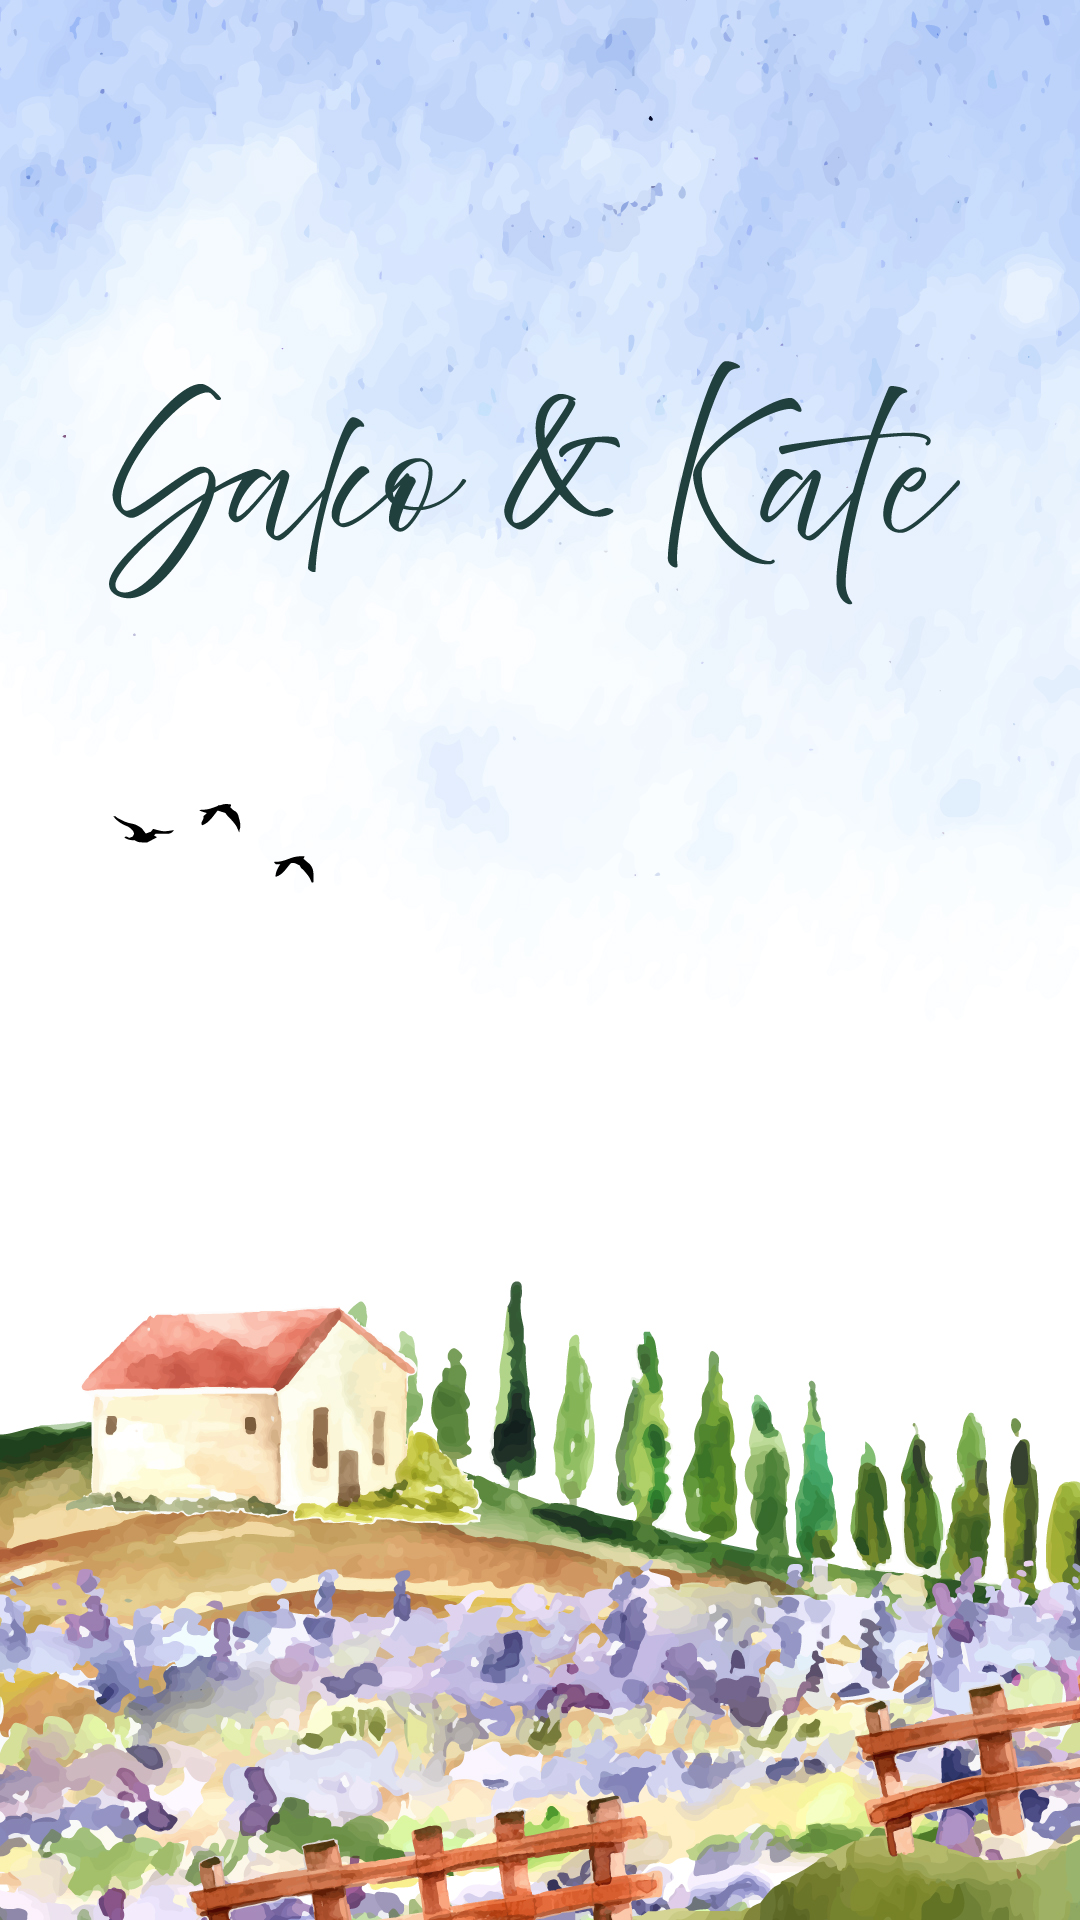
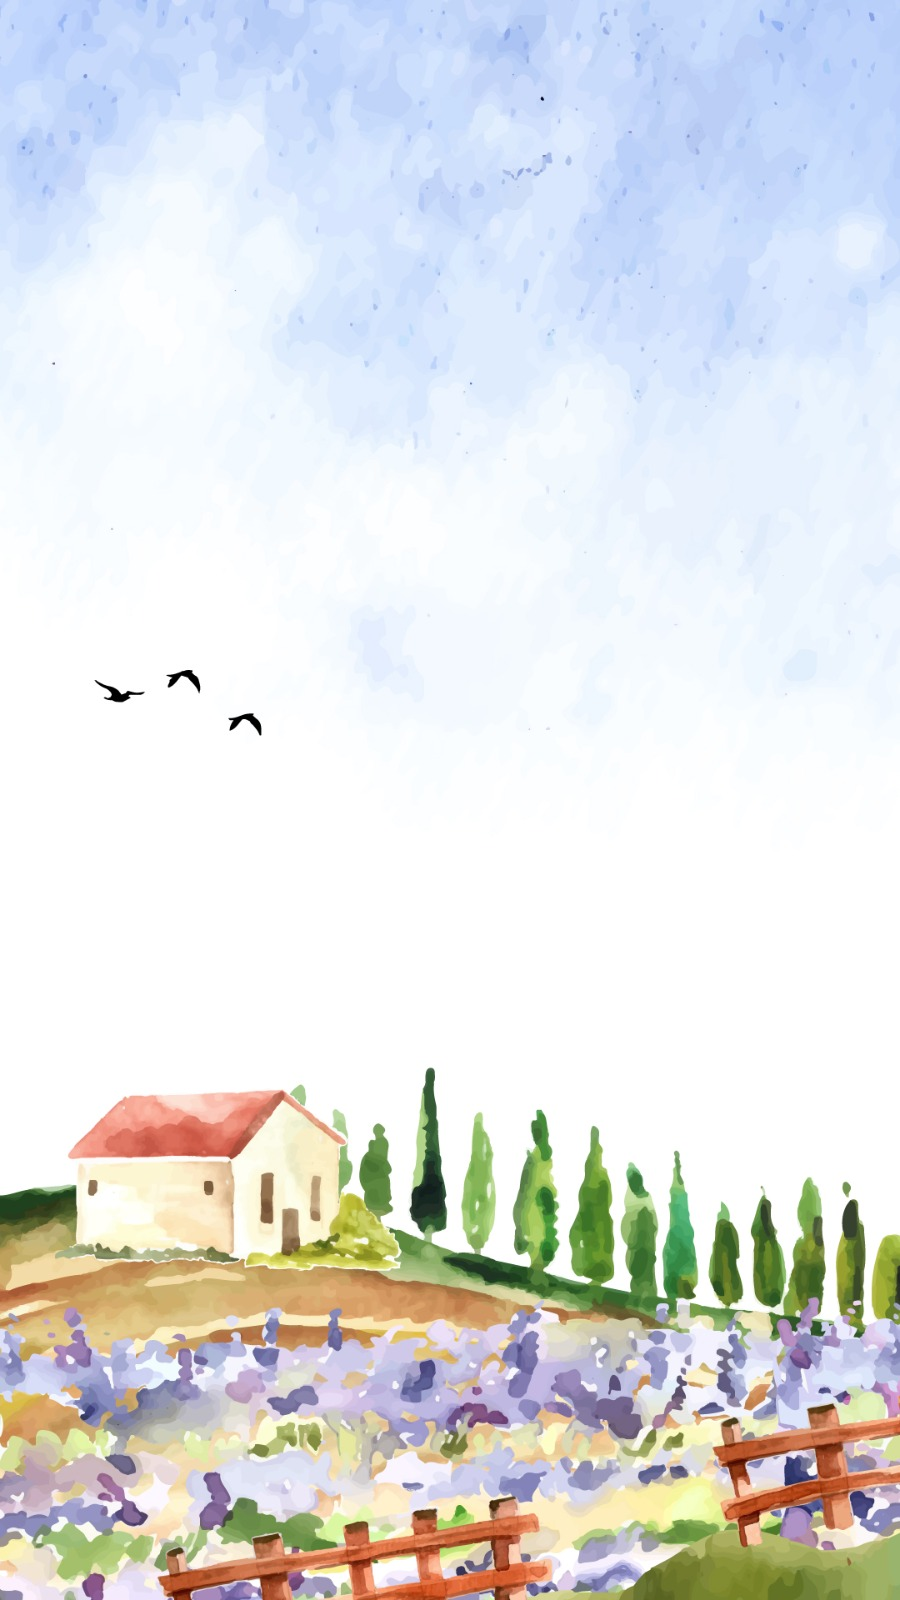
fix first slide

diff --git a/components/ExampleThree.vue b/components/ExampleThree.vue
@@ -1,4 +1,20 @@
 <template>
+  <!-- Desktop blocker — hidden on mobile, visible on md+ screens -->
+  <div class="desktop-blocker">
+    <div class="desktop-blocker__card">
+      <img src="/favicon.png" class="desktop-blocker__logo" alt="e-vents logo" />
+      <p class="desktop-blocker__title">Mobile Only</p>
+      <p class="desktop-blocker__msg">
+        This invitation is designed for mobile.<br />
+        Please open it on your phone for the best experience.
+      </p>
+      <div class="desktop-blocker__badge">
+        <img src="/favicon.png" class="w-4 h-4" alt="e-vents" />
+        <span>powered by e-vents</span>
+      </div>
+    </div>
+  </div>
+
   <section class="example-three relative flex m-auto full-custom-height overflow-hidden">
     <Swiper class="mainSwiper" :options="swiperOprions">
 
@@ -202,6 +218,21 @@
     </Swiper>
 
   </section>
+
+  <!-- ── Intro video overlay ───────────────────── -->
+  <!-- <Transition name="intro-fade">
+    <div v-if="showIntro" class="intro-overlay">
+      <video
+        class="intro-video"
+        autoplay
+        muted
+        playsinline
+        @ended="showIntro = false"
+      >
+        <source src="../assets/images/sako-kate/birds-1.mp4" type="video/mp4" />
+      </video>
+    </div>
+  </Transition> -->
 </template>
 
 <script setup lang="ts">
@@ -226,6 +257,8 @@ const swiperOprions = {
   },
   allowSlidePrev: false,
 };
+
+const showIntro = ref(true);
 
 const attendence = ref('');
 const rsvp = ref({
@@ -292,10 +325,10 @@ const submitRsvp = async () => {
   font-family: 'roxborough', sans-serif;
 }
 .sk-moderline {
-  font-family: 'modernline', sans-serif;
+  font-family: 'garadab', sans-serif;
 }
 .sk-moderline-bold {
-  font-family: 'modernline-bold', sans-serif;
+  font-family: 'garadab', sans-serif;
 }
 .sk-title-1 {
   font-family: 'roxborough', sans-serif;
@@ -354,6 +387,7 @@ const submitRsvp = async () => {
   font-size: 14px;
   color: #5a4a3a;
   outline: none;
+  background-color: transparent;
 }
 .sk-input:focus {
   border-color: #8a9a6a;
@@ -362,5 +396,93 @@ const submitRsvp = async () => {
 @media (max-width: 380px) {
   .sk-polaroid { width: 115px; }
   .sk-polaroid-inner { width: 99px; height: 120px; }
+}
+
+/* ── Intro video overlay ─────────────────────── */
+.intro-overlay {
+  position: fixed;
+  inset: 0;
+  z-index: 9999;
+  background: transparent;
+  pointer-events: none;
+}
+
+.intro-video {
+  width: 100%;
+  height: 100%;
+  object-fit: cover;
+  mix-blend-mode: multiply;
+}
+
+.intro-fade-leave-active {
+  transition: opacity 0.8s ease;
+}
+.intro-fade-leave-to {
+  opacity: 0;
+}
+
+/* ── Desktop blocker ─────────────────────────── */
+.desktop-blocker {
+  display: none;
+}
+
+@media (min-width: 768px) {
+  /* Hide the invitation content on desktop */
+  .example-three {
+    display: none !important;
+  }
+
+  /* Show the blocker */
+  .desktop-blocker {
+    display: flex;
+    align-items: center;
+    justify-content: center;
+    min-height: 100vh;
+    background: #f9f6f1;
+  }
+
+  .desktop-blocker__card {
+    text-align: center;
+    padding: 3rem 4rem;
+    background: white;
+    border-radius: 24px;
+    box-shadow: 0 8px 40px rgba(0, 0, 0, 0.10);
+    max-width: 420px;
+  }
+
+  .desktop-blocker__logo {
+    width: 72px;
+    height: 72px;
+    margin: 0 auto 1.25rem;
+    display: block;
+  }
+
+  .desktop-blocker__title {
+    font-family: 'modernline-bold', sans-serif;
+    font-size: 2rem;
+    color: #7a6e5a;
+    margin-bottom: 0.75rem;
+  }
+
+  .desktop-blocker__msg {
+    font-family: 'arapey-regular', sans-serif;
+    font-size: 1rem;
+    color: #5a4a3a;
+    line-height: 1.7;
+    margin-bottom: 2rem;
+  }
+
+  .desktop-blocker__badge {
+    display: inline-flex;
+    align-items: center;
+    gap: 6px;
+    background: #f0ece5;
+    border-radius: 999px;
+    padding: 6px 16px;
+    font-family: 'arapey-regular', sans-serif;
+    font-size: 11px;
+    letter-spacing: 0.08em;
+    color: #7a6e5a;
+  }
 }
 </style>

diff --git a/assets/css/main.scss b/assets/css/main.scss
@@ -63,6 +63,12 @@
   font-weight: normal;
   font-style: normal;
 }
+@font-face {
+  font-family: "garadab";
+  src: url("../fonts/garadab.TTF") format("truetype");
+  font-weight: normal;
+  font-style: normal;
+}
 
 .full-custom-height {
   height: 100dvh;